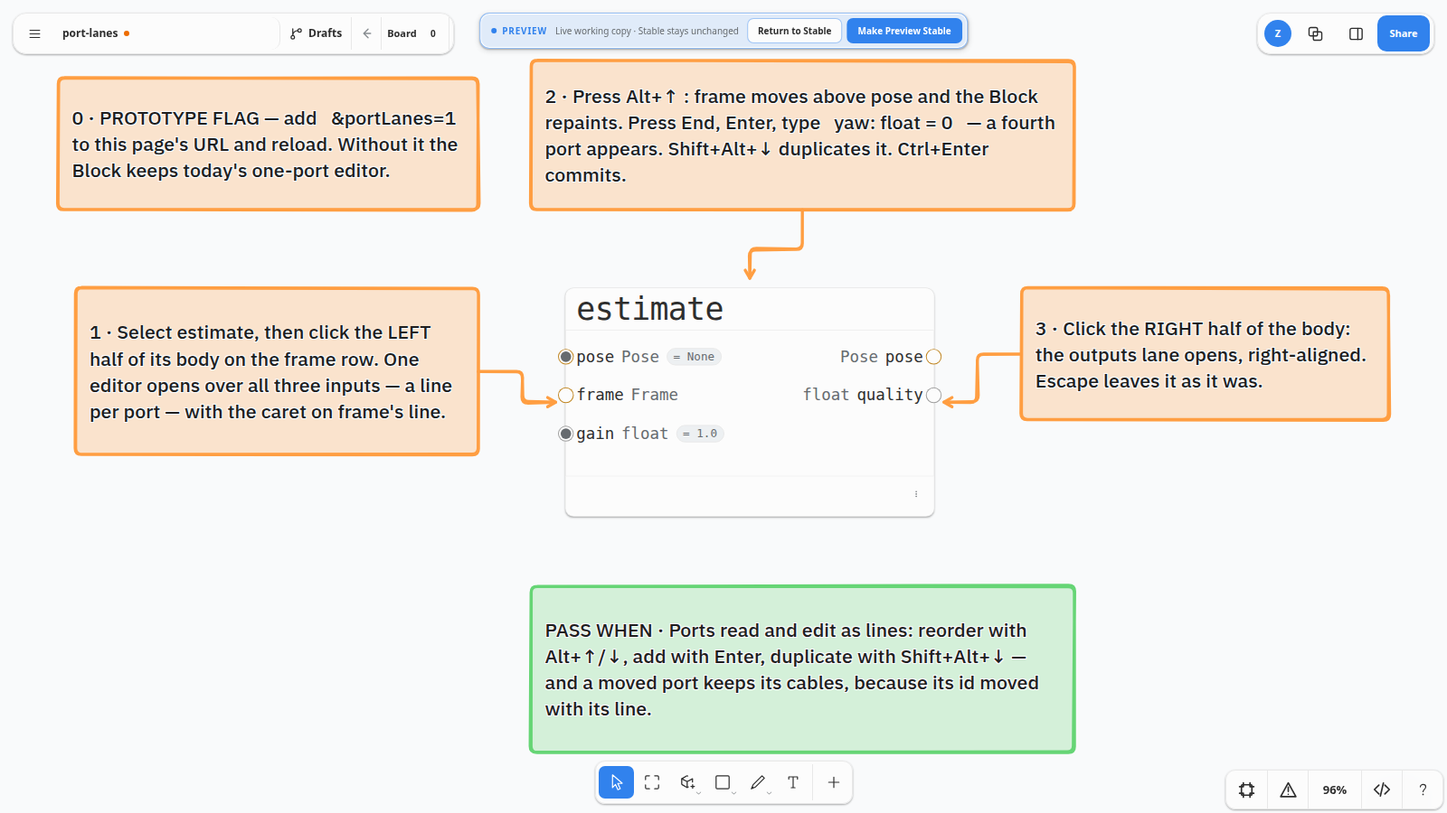
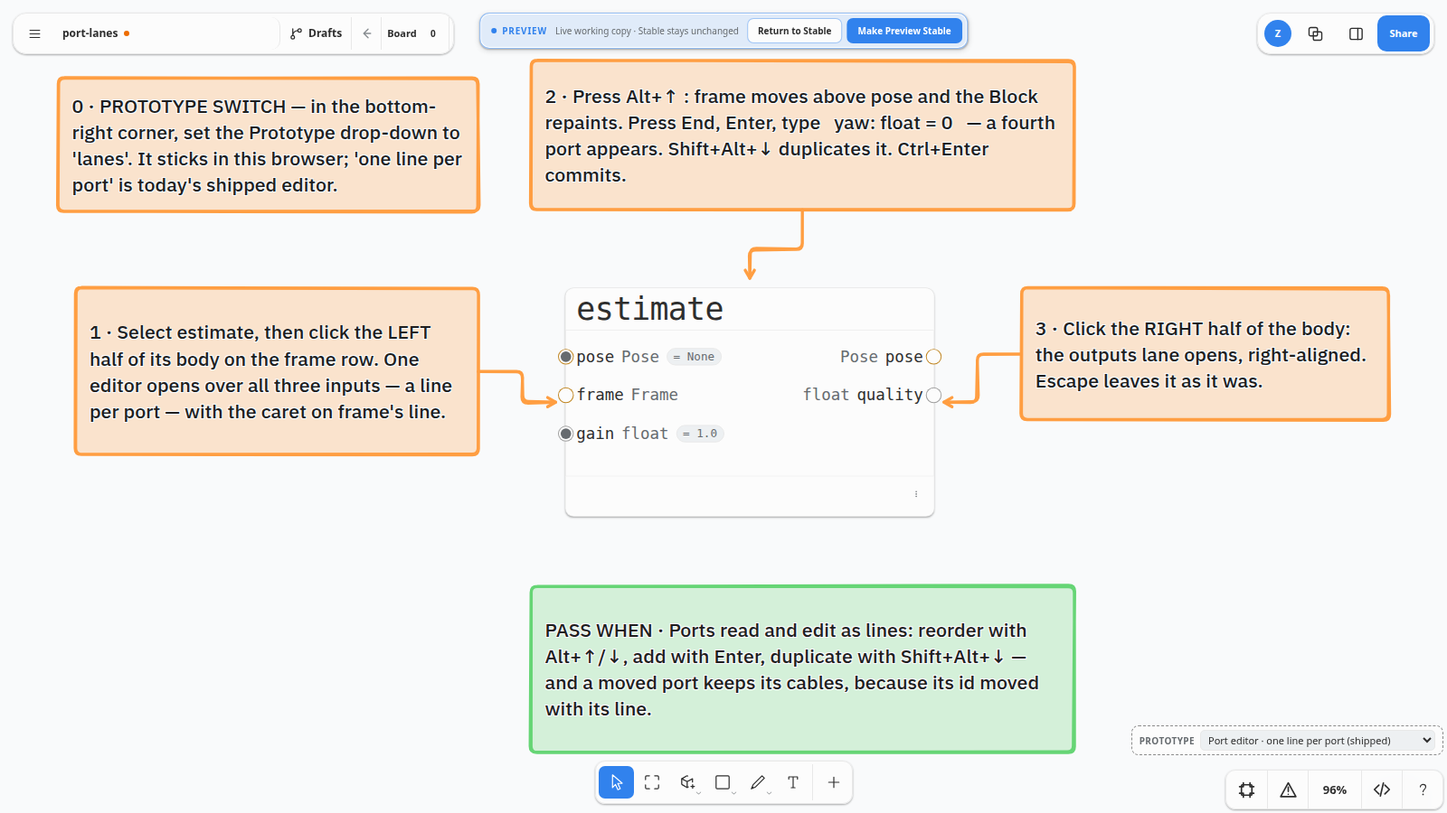
Prototype switch: a bottom-right drop-down flips the port editor, no URL flag
Zach's rating: "I don't want to have to switch the url to test a variant …
just add a temporary drop down selector to the UI maybe bottom right
corner." `PrototypeSwitch` sits above the utility strip and flips the port
editor between the shipped one-line field and the lane prototype, live,
remembered in localStorage; `?portLanes=1|0` stays as a journey-only
override. The lanes journey now enables the prototype from the drop-down and
proves switching back reopens the one-line editor (9/9). The lanes review
board's first cue and the report say the drop-down, not the URL.

Claude-Session: https://claude.ai/code/session_01HRogsF7SX827P5SbZT4kYa

Changed region(s): [[0.0312, 0.1244, 0.3438, 0.28], [0.7812, 0.9022, 0.9688, 0.9333]]

diff --git a/reports/port-signature-field-2026-09-09.html b/reports/port-signature-field-2026-09-09.html
@@ -57,7 +57,7 @@ kbd { font:12px ui-monospace,Menlo,monospace; background:#fff; border:1px solid 
 </style>
 <main>
 <h1>A port is one line of code</h1>
-<p class="meta">Refactor + the general code text box + the lane prototype · 2026-09-09 · measured against <code>a414d7c0</code> · tldraw 5.3.2 pinned, CodeMirror view ^6.38.6 · <a href="#thinking">the thinking</a> · <a href="#evidence">the evidence</a> · <a href="#lanes">the lane prototype</a> · <a href="#decisions">what needs you</a></p>
+<p class="meta">Refactor + the general code text box + the lane prototype · 2026-09-09 · measured against <code>ecd75d07</code> · tldraw 5.3.2 pinned, CodeMirror view ^6.38.6 · <a href="#thinking">the thinking</a> · <a href="#evidence">the evidence</a> · <a href="#lanes">the lane prototype</a> · <a href="#decisions">what needs you</a></p>
 
 <p class="lede"><b>What shipped.</b> Every place a port is edited is now <b>one text field</b> spelled <code>name: Type = default</code>: the docked inspector row (was Name · Type · Default, three boxes), the on-canvas click-to-edit editor (was a name box <i>or</i> a type box depending on which span you hit), and the free Port's panel (was Name · Type · Value). Underneath them is a new general component, <code>CodeField</code> — a single line of CodeMirror that knows nothing about grammar until one is plugged in — and one grammar module, <code>portSignature.ts</code>, that is the entire "language service": it splits the line into its three roles for highlighting, tells the completion which slot the caret is in, and writes the stored triple. <b>Storage did not change.</b> The stored <code>{ name, type, defaultValue }</code> is the parse tree of the line; the field formats it in and parses it back on every keystroke, so the Block paints the name, the type hint and the <code>= 5</code> chip live while you type, and every binding, projection and journey that reads the triple keeps reading it.</p>
 
@@ -148,11 +148,11 @@ kbd { font:12px ui-monospace,Menlo,monospace; background:#fff; border:1px solid 
 
 <div class="shots"><figure class="wide"><img src="media/port-signature-field/port-signature-field-round-trip.png" alt="Back in the inspector: the canonical spelling of what the canvas wrote. Two views, one stored triple." loading="lazy"><figcaption>Back in the inspector: the canonical spelling of what the canvas wrote. Two views, one stored triple.</figcaption></figure><figure class="wide"><img src="media/port-signature-field/fixture.png" alt="The guided review board that ships with this page: three numbered cues and one green PASS WHEN card around a real Type Block and a real Block." loading="lazy"><figcaption>The guided review board that ships with this page: three numbered cues and one green PASS WHEN card around a real Type Block and a real Block.</figcaption></figure></div>
 
-<h2 id="lanes">Prototype · one line per port (<code>?portLanes=1</code>)</h2>
+<h2 id="lanes">Prototype · one line per port (the bottom-right <b>Prototype</b> drop-down → <i>lanes</i>)</h2>
 <p class="lede">Built the same afternoon from your follow-up: instead of one line per field, <b>each lane of a Port view is one multi-line code text box</b> — the inputs lane on the left, the outputs lane parked just outside the right edge so it is typed left-to-right — and each line <i>is</i> a port. Clicking the left half of the Block opens the inputs lane with the caret on the row you clicked; the right half opens the outputs. Because the lane is a CodeMirror document, the IDE keys come for free and mean what you'd hope: <kbd>Alt</kbd>+<kbd>↑</kbd>/<kbd>↓</kbd> or <kbd>Ctrl</kbd>+<kbd>↑</kbd>/<kbd>↓</kbd> reorders a port, <kbd>Enter</kbd> adds one on the next line, <kbd>Shift</kbd>+<kbd>Alt</kbd>+<kbd>↓</kbd> duplicates one, <kbd>Ctrl</kbd>+<kbd>Enter</kbd> commits, <kbd>Esc</kbd> leaves. Every keystroke reads the whole lane back into the same port records: <code>reconcilePortLane</code> diffs the lines, a line that still says what a port said keeps that port's id (so a <b>moved port keeps its cables</b>), a line edited in place keeps its id, a new line is a new port, a missing line is a removed one. Storage is still the triple; header ports and hidden ports are not lines and keep their place around the lane.</p>
 <div class="callout"><b>What the lane taught about the overlay idea.</b> The Block itself is the rendered layer: while the lane is open the Block keeps painting dots, chips and labels from the store, so you are looking at source and projection at once, aligned row for row. That is the two-state field you described — rendered by default, source when you click in — with the cursor landing on the right line because the lines <i>are</i> the rows. What is still missing is the reveal rule inside the editor (raw only on the caret's line, rendered elsewhere); here the whole lane is raw while open, which is the "switch the whole thing" mode. The per-line reveal is the next step and is a decoration rule, not a second editor.</div>
-<div class="shots"><figure class="wide"><img src="media/port-signature-field/port-lanes-inputs-open.png" alt="?portLanes=1 · a click on the left half of the body opens ONE editor over all three inputs, one line per port, each line pinned to its dot&#x27;s row; the caret opened on frame, the row that was clicked." loading="lazy"><figcaption><code>?portLanes=1</code> · a click on the left half of the body opens ONE editor over all three inputs, one line per port, each line pinned to its dot's row; the caret opened on <code>frame</code>, the row that was clicked.</figcaption></figure><figure><img src="media/port-signature-field/port-lanes-moved-up.png" alt="Ctrl+↑ (or Alt+↑) on that line: frame is now first. The store reads in_2, in_1, in_3 — the ids moved with their lines, so a cable bound to in_2 is still bound to frame." loading="lazy"><figcaption>Ctrl+↑ (or Alt+↑) on that line: <code>frame</code> is now first. The store reads <code>in_2, in_1, in_3</code> — the ids moved with their lines, so a cable bound to <code>in_2</code> is still bound to <code>frame</code>.</figcaption></figure><figure><img src="media/port-signature-field/port-lanes-duplicated.png" alt="Enter started yaw: float = 0 as a new port in place; Shift+Alt+↓ then duplicated the line into a fifth port with its own id. The Block re-laid its rows under the editor as they were added." loading="lazy"><figcaption>Enter started <code>yaw: float = 0</code> as a new port in place; Shift+Alt+↓ then duplicated the line into a fifth port with its own id. The Block re-laid its rows under the editor as they were added.</figcaption></figure><figure><img src="media/port-signature-field/port-lanes-committed.png" alt="Ctrl+Enter commits: the Block paints the five ports the lane described." loading="lazy"><figcaption>Ctrl+Enter commits: the Block paints the five ports the lane described.</figcaption></figure><figure><img src="media/port-signature-field/port-lanes-outputs-open.png" alt="The right half opens the outputs lane — parked just past the Block&#x27;s right edge and typed the ordinary way, rows still one-to-one with the dots (your suggestion, applied as V1 below). Escape leaves the outputs untouched." loading="lazy"><figcaption>The right half opens the outputs lane — parked just past the Block's right edge and typed the ordinary way, rows still one-to-one with the dots (your suggestion, applied as V1 below). Escape leaves the outputs untouched.</figcaption></figure><figure class="wide"><img src="media/port-signature-field/lanes-fixture.png" alt="The lanes&#x27; own guided board: cue 0 is the flag, then the three gestures and a PASS WHEN." loading="lazy"><figcaption>The lanes' own guided board: cue 0 is the flag, then the three gestures and a PASS WHEN.</figcaption></figure></div>
-<p>Proof: <code>npm run test:port-lanes</code> (8 real-browser checks) and 11 unit tests over the reconciler and the hit-test (<code>portLane.test.ts</code>, <code>portLaneAtPoint.test.ts</code>); <code>portLane.ts</code> is 158 lines. Behind the flag the shipped one-line editor and every journey are unchanged.</p>
+<div class="shots"><figure class="wide"><img src="media/port-signature-field/port-lanes-inputs-open.png" alt="Prototype switch set to lanes (bottom-right drop-down; it remembers the choice, no URL editing) · a click on the left half of the body opens ONE editor over all three inputs, one line per port, each line pinned to its dot&#x27;s row; the caret opened on frame, the row that was clicked." loading="lazy"><figcaption>Prototype switch set to <i>lanes</i> (bottom-right drop-down; it remembers the choice, no URL editing) · a click on the left half of the body opens ONE editor over all three inputs, one line per port, each line pinned to its dot's row; the caret opened on <code>frame</code>, the row that was clicked.</figcaption></figure><figure><img src="media/port-signature-field/port-lanes-moved-up.png" alt="Ctrl+↑ (or Alt+↑) on that line: frame is now first. The store reads in_2, in_1, in_3 — the ids moved with their lines, so a cable bound to in_2 is still bound to frame." loading="lazy"><figcaption>Ctrl+↑ (or Alt+↑) on that line: <code>frame</code> is now first. The store reads <code>in_2, in_1, in_3</code> — the ids moved with their lines, so a cable bound to <code>in_2</code> is still bound to <code>frame</code>.</figcaption></figure><figure><img src="media/port-signature-field/port-lanes-duplicated.png" alt="Enter started yaw: float = 0 as a new port in place; Shift+Alt+↓ then duplicated the line into a fifth port with its own id. The Block re-laid its rows under the editor as they were added." loading="lazy"><figcaption>Enter started <code>yaw: float = 0</code> as a new port in place; Shift+Alt+↓ then duplicated the line into a fifth port with its own id. The Block re-laid its rows under the editor as they were added.</figcaption></figure><figure><img src="media/port-signature-field/port-lanes-committed.png" alt="Ctrl+Enter commits: the Block paints the five ports the lane described." loading="lazy"><figcaption>Ctrl+Enter commits: the Block paints the five ports the lane described.</figcaption></figure><figure><img src="media/port-signature-field/port-lanes-outputs-open.png" alt="The right half opens the outputs lane — parked just past the Block&#x27;s right edge and typed the ordinary way, rows still one-to-one with the dots (your suggestion, applied as V1 below). Escape leaves the outputs untouched." loading="lazy"><figcaption>The right half opens the outputs lane — parked just past the Block's right edge and typed the ordinary way, rows still one-to-one with the dots (your suggestion, applied as V1 below). Escape leaves the outputs untouched.</figcaption></figure><figure class="wide"><img src="media/port-signature-field/lanes-fixture.png" alt="The lanes&#x27; own guided board: cue 0 is the drop-down, then the three gestures and a PASS WHEN." loading="lazy"><figcaption>The lanes' own guided board: cue 0 is the drop-down, then the three gestures and a PASS WHEN.</figcaption></figure></div>
+<p>Proof: <code>npm run test:port-lanes</code> (9 real-browser checks) and 11 unit tests over the reconciler and the hit-test (<code>portLane.test.ts</code>, <code>portLaneAtPoint.test.ts</code>); <code>portLane.ts</code> is 158 lines. With the drop-down on <i>one line per port</i> the shipped editor and every journey are unchanged; the journey itself flips the drop-down both ways and proves the switch is live. (A URL override, <code>?portLanes=1|0</code>, exists for journeys only — the drop-down is the way in, per your rating.)</p>
 
 <h3 id="lane-ergonomics">Two questions you asked, five directions each</h3>
 <p><b>A · the outputs lane "feels reverse".</b> Typing into a right-anchored box is nothing anyone's hands know. The five ways out, with the one you suggested already applied:</p>
@@ -181,7 +181,7 @@ kbd { font:12px ui-monospace,Menlo,monospace; background:#fff; border:1px solid 
 <tr><td>D2</td><td>The Pill's inspector still has Name · Value · Type boxes (its canvas editor was already one line).</td><td>Convert it next with the pill grammar (<code>value</code> first, <code>2.0</code> alone is a literal). Left as is here because its grammar differs and its journeys are large; default is unchanged.</td></tr>
 <tr><td>D3</td><td>Promote <code>typeNameAutocompleteLogic.ts</code> and the type index out of <code>src/blocks/babble/</code> — the product now imports them.</td><td>Yes, a pure move. Not done in this diff to keep it reviewable; default is a follow-up.</td></tr>
 <tr><td>D4</td><td>Fold <code>ExpandingExpressionField</code> into <code>CodeField</code> + an expression grammar, and give Type attribute lines and Type Mapping aliases the same field.</td><td>Yes — that is the "general feature" fully realised. Default is a follow-up, one grammar per change.</td></tr>
-<tr><td>D5</td><td>Lanes: promote from flag to default? The lane replaces the one-line-per-port canvas editor when it does; the inspector's per-row fields can stay as the "form" view.</td><td>Drive it first. Default: stays behind <code>?portLanes=1</code>; next step is the <code>---</code> row divider and the per-line reveal, then promote.</td></tr>
+<tr><td>D5</td><td>Lanes: promote from flag to default? The lane replaces the one-line-per-port canvas editor when it does; the inspector's per-row fields can stay as the "form" view.</td><td>Drive it first. Default: stays behind the Prototype drop-down; next step is the <code>---</code> row divider and the per-line reveal, then promote.</td></tr>
 <tr><td>D6</td><td>Lane keys: should bare Enter add a port (as now) or commit, with Shift+Enter adding? </td><td>Keep Enter = new line: a lane is a document, and that is what makes it feel like an editor. Default as built.</td></tr>
 </table>
 

diff --git a/src/blocks/portLanePrototype.ts b/src/blocks/portLanePrototype.ts
@@ -1,13 +1,62 @@
 /**
- * The port-lane prototype flag: `?portLanes=1`.
+ * The port-editor prototype switch.
  *
- * WHY a URL flag and not a setting: this is a prototype of a second editing
- * model for a Block's ports (each lane is one multi-line document, one line
- * per port) living beside the shipped one-line-per-row editor. Until Zach has
- * driven it, it must be inert on every ordinary board — the same rule the
- * `variadicPrototype` and `portLinkPrototype` flags follow.
+ * WHY an in-app switch and not a URL flag: Zach's rating on 2026-09-09 —
+ * "I don't want to have to switch the url to test a variant; when doing
+ * prototypes like this, just add a temporary drop-down selector to the UI".
+ * The choice persists in this browser (localStorage), so a retained review
+ * opens the way it was last left; `?portLanes=1|0` still overrides for a
+ * journey that needs a fixed mode. It is prototype chrome: inert on every
+ * ordinary board until the switch is used, and deleted when the prototype is
+ * promoted or dropped.
  */
+import { useSyncExternalStore } from 'react'
+
+export const PORT_EDITOR_MODES = ['one-line', 'lanes'] as const
+export type PortEditorMode = (typeof PORT_EDITOR_MODES)[number]
+
+const STORAGE_KEY = 'systemsketch.prototype.portEditor'
+const listeners = new Set<() => void>()
+
+function stored(): PortEditorMode | null {
+	try {
+		const value = window.localStorage.getItem(STORAGE_KEY)
+		return value === 'lanes' || value === 'one-line' ? value : null
+	} catch {
+		return null
+	}
+}
+
+function fromUrl(): PortEditorMode | null {
+	const value = new URLSearchParams(window.location.search).get('portLanes')
+	if (value === '1') return 'lanes'
+	if (value === '0') return 'one-line'
+	return null
+}
+
+export function getPortEditorMode(): PortEditorMode {
+	if (typeof window === 'undefined') return 'one-line'
+	return fromUrl() ?? stored() ?? 'one-line'
+}
+
+export function setPortEditorMode(mode: PortEditorMode): void {
+	try {
+		window.localStorage.setItem(STORAGE_KEY, mode)
+	} catch {
+		// A blocked storage still switches for this page.
+	}
+	listeners.forEach((listener) => listener())
+}
+
+export function subscribePortEditorMode(listener: () => void): () => void {
+	listeners.add(listener)
+	return () => listeners.delete(listener)
+}
+
+export function usePortEditorMode(): PortEditorMode {
+	return useSyncExternalStore(subscribePortEditorMode, getPortEditorMode, () => 'one-line' as PortEditorMode)
+}
+
 export function portLanesEnabled(): boolean {
-	if (typeof window === 'undefined') return false
-	return new URLSearchParams(window.location.search).get('portLanes') === '1'
+	return getPortEditorMode() === 'lanes'
 }

diff --git a/src/development/PrototypeSwitch.tsx b/src/development/PrototypeSwitch.tsx
@@ -1,0 +1,44 @@
+import { useEditor } from 'tldraw'
+
+import {
+	PORT_EDITOR_MODES,
+	setPortEditorMode,
+	usePortEditorMode,
+	type PortEditorMode,
+} from '../blocks/portLanePrototype'
+import './prototype-switch.css'
+
+const LABEL: Record<PortEditorMode, string> = {
+	'one-line': 'Port editor · one line per port (shipped)',
+	lanes: 'Port editor · lanes, one line per port (prototype)',
+}
+
+/**
+ * Temporary prototype chrome in the bottom-right corner: a drop-down that
+ * flips the port editor between the shipped one-line field and the lane
+ * prototype, remembered in this browser. Exists so a variant can be tried
+ * without editing the URL; goes away with the prototype it switches.
+ */
+export function PrototypeSwitch() {
+	const editor = useEditor()
+	const mode = usePortEditorMode()
+	return (
+		<label className="systemsketch-prototype-switch" data-testid="systemsketch-prototype-switch">
+			<span>Prototype</span>
+			<select
+				aria-label="Port editor prototype"
+				value={mode}
+				onChange={(event) => {
+					// Close any open editor first: a lane and a one-line box must
+					// never be alive across the switch.
+					if (editor.getEditingShapeId()) editor.complete()
+					setPortEditorMode(event.target.value as PortEditorMode)
+				}}
+			>
+				{PORT_EDITOR_MODES.map((option) => (
+					<option key={option} value={option}>{LABEL[option]}</option>
+				))}
+			</select>
+		</label>
+	)
+}

diff --git a/src/development/prototype-switch.css b/src/development/prototype-switch.css
@@ -1,0 +1,40 @@
+/* Temporary prototype chrome: a small drop-down above the bottom-right
+ * utility strip. Deliberately plain — it is not product UI. */
+.systemsketch-prototype-switch {
+  position: absolute;
+  right: var(--tl-space-2, 8px);
+  bottom: 64px;
+  z-index: calc(var(--tl-layer-panels) + 1);
+  display: inline-flex;
+  align-items: center;
+  gap: 6px;
+  padding: 4px 8px;
+  border: 1px dashed var(--ss-border-strong);
+  border-radius: 8px;
+  background: var(--ss-surface-raised);
+  color: var(--ss-text-muted);
+  font: 11px/1.2 Inter, ui-sans-serif, system-ui, sans-serif;
+  pointer-events: all;
+}
+
+.systemsketch-prototype-switch span {
+  font-weight: 600;
+  letter-spacing: .04em;
+  text-transform: uppercase;
+  font-size: 10px;
+}
+
+.systemsketch-prototype-switch select {
+  max-width: 260px;
+  padding: 2px 4px;
+  border: 1px solid var(--ss-border);
+  border-radius: 5px;
+  background: var(--ss-surface-sunken);
+  color: var(--ss-text);
+  font: inherit;
+}
+
+/* Keep clear of the docked inspector, the way the utility strip does. */
+.systemsketch-app:has(.systemsketch-popout--right[data-surface='inspector']) .systemsketch-prototype-switch {
+  right: calc(280px + var(--tl-space-2, 8px));
+}

diff --git a/src/SystemSketchUtilities.tsx b/src/SystemSketchUtilities.tsx
@@ -50,6 +50,7 @@ import { setTreeDragModelOverlay, treeDragModelOverlay } from './behaviorTree/tr
 import { openDragModelTuner } from './behaviorTree/ui/BtDragModelTunerPanel'
 import { setTypeChevronPlacement, typeAttributePresentation } from './blocks/typeAttributePresentation'
 import { useAppearancePreferences } from './settings/appearancePreferences'
+import { PrototypeSwitch } from './development/PrototypeSwitch'
 import './systemsketch-utilities.css'
 import { useBoardDiagnosticsModel } from './diagnostics'
 
@@ -654,6 +655,8 @@ export function SystemSketchNavigationPanel() {
           </button>
         </section>
       ) : null}
+
+      <PrototypeSwitch />
 
       <TldrawUiToolbar
         className="systemsketch-utility-strip"

diff --git a/docs/build_port_signature_field.py b/docs/build_port_signature_field.py
@@ -40,12 +40,12 @@ CAPTURES = [
 ]
 
 LANE_CAPTURES = [
-    ("port-lanes-inputs-open.png", "<code>?portLanes=1</code> · a click on the left half of the body opens ONE editor over all three inputs, one line per port, each line pinned to its dot's row; the caret opened on <code>frame</code>, the row that was clicked."),
+    ("port-lanes-inputs-open.png", "Prototype switch set to <i>lanes</i> (bottom-right drop-down; it remembers the choice, no URL editing) · a click on the left half of the body opens ONE editor over all three inputs, one line per port, each line pinned to its dot's row; the caret opened on <code>frame</code>, the row that was clicked."),
     ("port-lanes-moved-up.png", "Ctrl+↑ (or Alt+↑) on that line: <code>frame</code> is now first. The store reads <code>in_2, in_1, in_3</code> — the ids moved with their lines, so a cable bound to <code>in_2</code> is still bound to <code>frame</code>."),
     ("port-lanes-duplicated.png", "Enter started <code>yaw: float = 0</code> as a new port in place; Shift+Alt+↓ then duplicated the line into a fifth port with its own id. The Block re-laid its rows under the editor as they were added."),
     ("port-lanes-committed.png", "Ctrl+Enter commits: the Block paints the five ports the lane described."),
     ("port-lanes-outputs-open.png", "The right half opens the outputs lane — parked just past the Block's right edge and typed the ordinary way, rows still one-to-one with the dots (your suggestion, applied as V1 below). Escape leaves the outputs untouched."),
-    ("lanes-fixture.png", "The lanes' own guided board: cue 0 is the flag, then the three gestures and a PASS WHEN."),
+    ("lanes-fixture.png", "The lanes' own guided board: cue 0 is the drop-down, then the three gestures and a PASS WHEN."),
 ]
 
 
@@ -119,7 +119,8 @@ def measured() -> dict:
     lane = read("src/blocks/portLane.ts")
     need(lane, "export function reconcilePortLane(", "the lane reconciler")
     need(lane, "function commonLines(", "the line diff that keeps ids across a move")
-    need(read("src/blocks/portLanePrototype.ts"), "get('portLanes') === '1'", "the prototype flag")
+    need(read("src/development/PrototypeSwitch.tsx"), "aria-label=\"Port editor prototype\"", "the in-app prototype switch")
+    need(read("src/blocks/portLanePrototype.ts"), "localStorage.getItem(STORAGE_KEY)", "the switch is remembered")
     need(inline_model, "kind: 'portLane'", "the lane field kind")
     need(inline, "multiline", "the lane editor is the multi-line CodeField")
     need(field, "multiline", "CodeField's lane mode")
@@ -403,11 +404,11 @@ def page(m: dict) -> str:
 
 {shots(CAPTURES[4:])}
 
-<h2 id="lanes">Prototype · one line per port (<code>?portLanes=1</code>)</h2>
+<h2 id="lanes">Prototype · one line per port (the bottom-right <b>Prototype</b> drop-down → <i>lanes</i>)</h2>
 <p class="lede">Built the same afternoon from your follow-up: instead of one line per field, <b>each lane of a Port view is one multi-line code text box</b> — the inputs lane on the left, the outputs lane parked just outside the right edge so it is typed left-to-right — and each line <i>is</i> a port. Clicking the left half of the Block opens the inputs lane with the caret on the row you clicked; the right half opens the outputs. Because the lane is a CodeMirror document, the IDE keys come for free and mean what you'd hope: <kbd>Alt</kbd>+<kbd>↑</kbd>/<kbd>↓</kbd> or <kbd>Ctrl</kbd>+<kbd>↑</kbd>/<kbd>↓</kbd> reorders a port, <kbd>Enter</kbd> adds one on the next line, <kbd>Shift</kbd>+<kbd>Alt</kbd>+<kbd>↓</kbd> duplicates one, <kbd>Ctrl</kbd>+<kbd>Enter</kbd> commits, <kbd>Esc</kbd> leaves. Every keystroke reads the whole lane back into the same port records: <code>reconcilePortLane</code> diffs the lines, a line that still says what a port said keeps that port's id (so a <b>moved port keeps its cables</b>), a line edited in place keeps its id, a new line is a new port, a missing line is a removed one. Storage is still the triple; header ports and hidden ports are not lines and keep their place around the lane.</p>
 <div class="callout"><b>What the lane taught about the overlay idea.</b> The Block itself is the rendered layer: while the lane is open the Block keeps painting dots, chips and labels from the store, so you are looking at source and projection at once, aligned row for row. That is the two-state field you described — rendered by default, source when you click in — with the cursor landing on the right line because the lines <i>are</i> the rows. What is still missing is the reveal rule inside the editor (raw only on the caret's line, rendered elsewhere); here the whole lane is raw while open, which is the "switch the whole thing" mode. The per-line reveal is the next step and is a decoration rule, not a second editor.</div>
 {shots(LANE_CAPTURES)}
-<p>Proof: <code>npm run test:port-lanes</code> ({len(m['lane_checks'])} real-browser checks) and {m['lane_tests']} unit tests over the reconciler and the hit-test (<code>portLane.test.ts</code>, <code>portLaneAtPoint.test.ts</code>); <code>portLane.ts</code> is {m['lane_lines']} lines. Behind the flag the shipped one-line editor and every journey are unchanged.</p>
+<p>Proof: <code>npm run test:port-lanes</code> ({len(m['lane_checks'])} real-browser checks) and {m['lane_tests']} unit tests over the reconciler and the hit-test (<code>portLane.test.ts</code>, <code>portLaneAtPoint.test.ts</code>); <code>portLane.ts</code> is {m['lane_lines']} lines. With the drop-down on <i>one line per port</i> the shipped editor and every journey are unchanged; the journey itself flips the drop-down both ways and proves the switch is live. (A URL override, <code>?portLanes=1|0</code>, exists for journeys only — the drop-down is the way in, per your rating.)</p>
 
 <h3 id="lane-ergonomics">Two questions you asked, five directions each</h3>
 <p><b>A · the outputs lane "feels reverse".</b> Typing into a right-anchored box is nothing anyone's hands know. The five ways out, with the one you suggested already applied:</p>
@@ -436,7 +437,7 @@ def page(m: dict) -> str:
 <tr><td>D2</td><td>The Pill's inspector still has Name · Value · Type boxes (its canvas editor was already one line).</td><td>Convert it next with the pill grammar (<code>value</code> first, <code>2.0</code> alone is a literal). Left as is here because its grammar differs and its journeys are large; default is unchanged.</td></tr>
 <tr><td>D3</td><td>Promote <code>typeNameAutocompleteLogic.ts</code> and the type index out of <code>src/blocks/babble/</code> — the product now imports them.</td><td>Yes, a pure move. Not done in this diff to keep it reviewable; default is a follow-up.</td></tr>
 <tr><td>D4</td><td>Fold <code>ExpandingExpressionField</code> into <code>CodeField</code> + an expression grammar, and give Type attribute lines and Type Mapping aliases the same field.</td><td>Yes — that is the "general feature" fully realised. Default is a follow-up, one grammar per change.</td></tr>
-<tr><td>D5</td><td>Lanes: promote from flag to default? The lane replaces the one-line-per-port canvas editor when it does; the inspector's per-row fields can stay as the "form" view.</td><td>Drive it first. Default: stays behind <code>?portLanes=1</code>; next step is the <code>---</code> row divider and the per-line reveal, then promote.</td></tr>
+<tr><td>D5</td><td>Lanes: promote from flag to default? The lane replaces the one-line-per-port canvas editor when it does; the inspector's per-row fields can stay as the "form" view.</td><td>Drive it first. Default: stays behind the Prototype drop-down; next step is the <code>---</code> row divider and the per-line reveal, then promote.</td></tr>
 <tr><td>D6</td><td>Lane keys: should bare Enter add a port (as now) or commit, with Shift+Enter adding? </td><td>Keep Enter = new line: a lane is a document, and that is what makes it feel like an editor. Default as built.</td></tr>
 </table>
 
